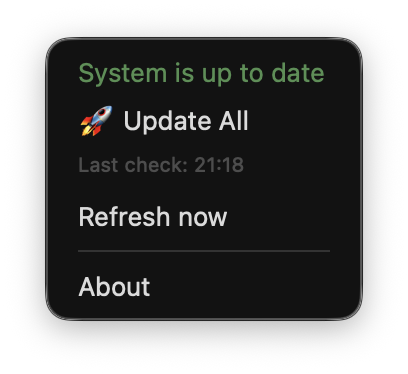
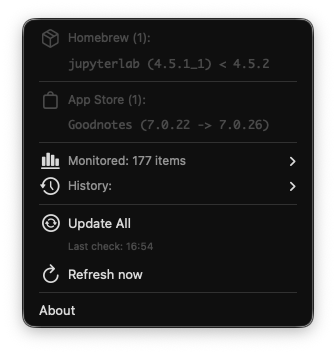
style: update UI assets and refresh README documentation

diff --git a/README.md b/README.md
@@ -27,11 +27,21 @@ A lightweight plugin for **SwiftBar**.
 * **Status:** A discreet icon in the menu bar displays the total count of available updates (combining Homebrew & App Store).
 * **Action:** Clicking "Update All" launches a terminal window to run `brew upgrade` and `mas upgrade`, followed by a system cleanup.
 
-## Preview
 
-### Menu Bar Monitor
-![Menu Bar Icon](img/menubar_monitor.png)
+## Screenshots
 
+### Menu Bar States
+| Status | Icon Appearance | Description |
+| :--- | :--- | :--- |
+| **Up to Date** | ![Everything Updated](img/menubar_icon_everything_updated.png) | System is clean, checkmark icon displayed. |
+| **Updates Ready** | ![Updates Ready](img/menubar_icon_update_ready.png) | Badge with update count and red sync icon. |
+
+### Dropdown Interface
+| Category | Screenshot | Features |
+| :--- | :--- | :--- |
+| **Main View** | ![Monitor](img/menubar_monitor.png) | Overview of Homebrew and App Store updates. |
+| **Statistics** | ![Monitor Details](img/menubar_monitor_details.png) | Submenu showing counts for Casks, Formulae, and MAS apps. |
+| **History** | ![History](menubar_monitor_history.png) | Submenu tracking update counts for the last 7 and 30 days. |
 ---
 
 ## 📋 Prerequisites
